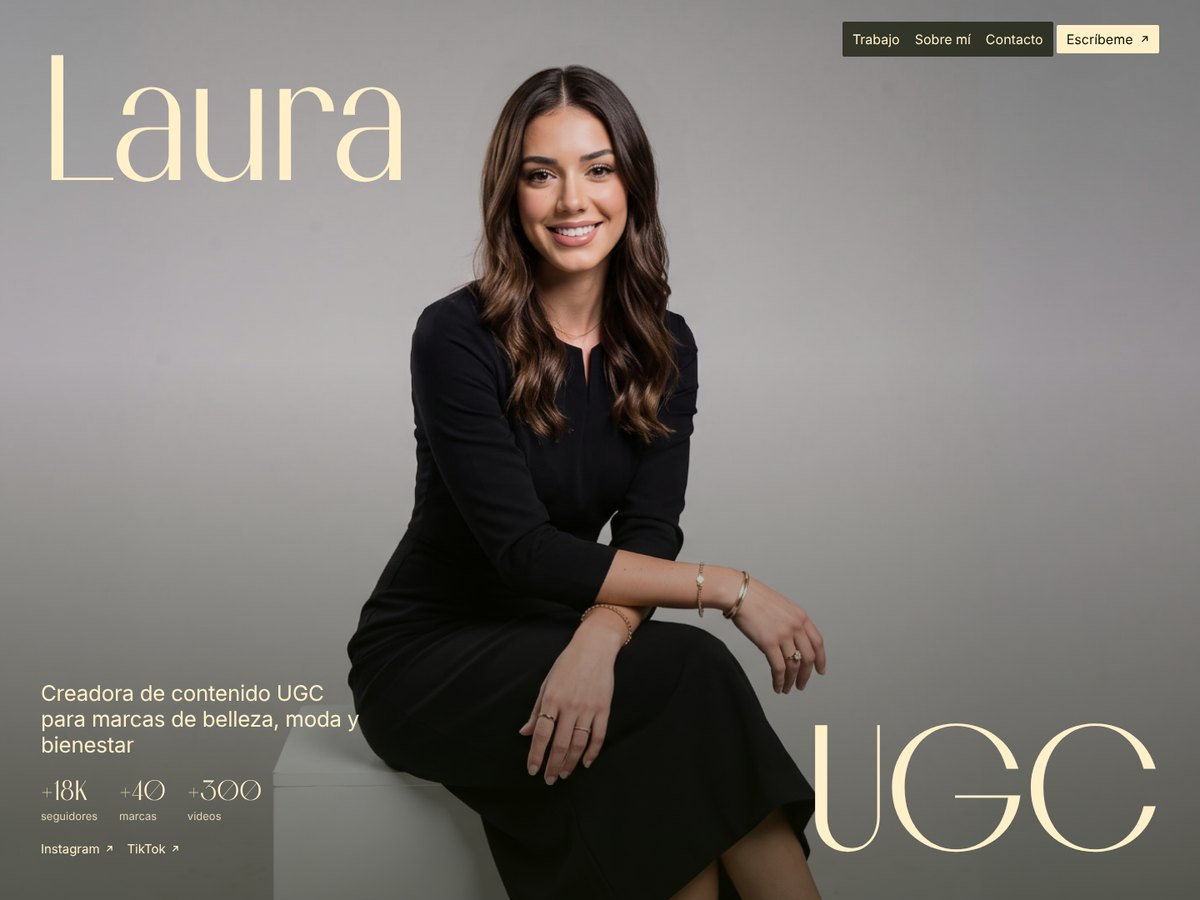
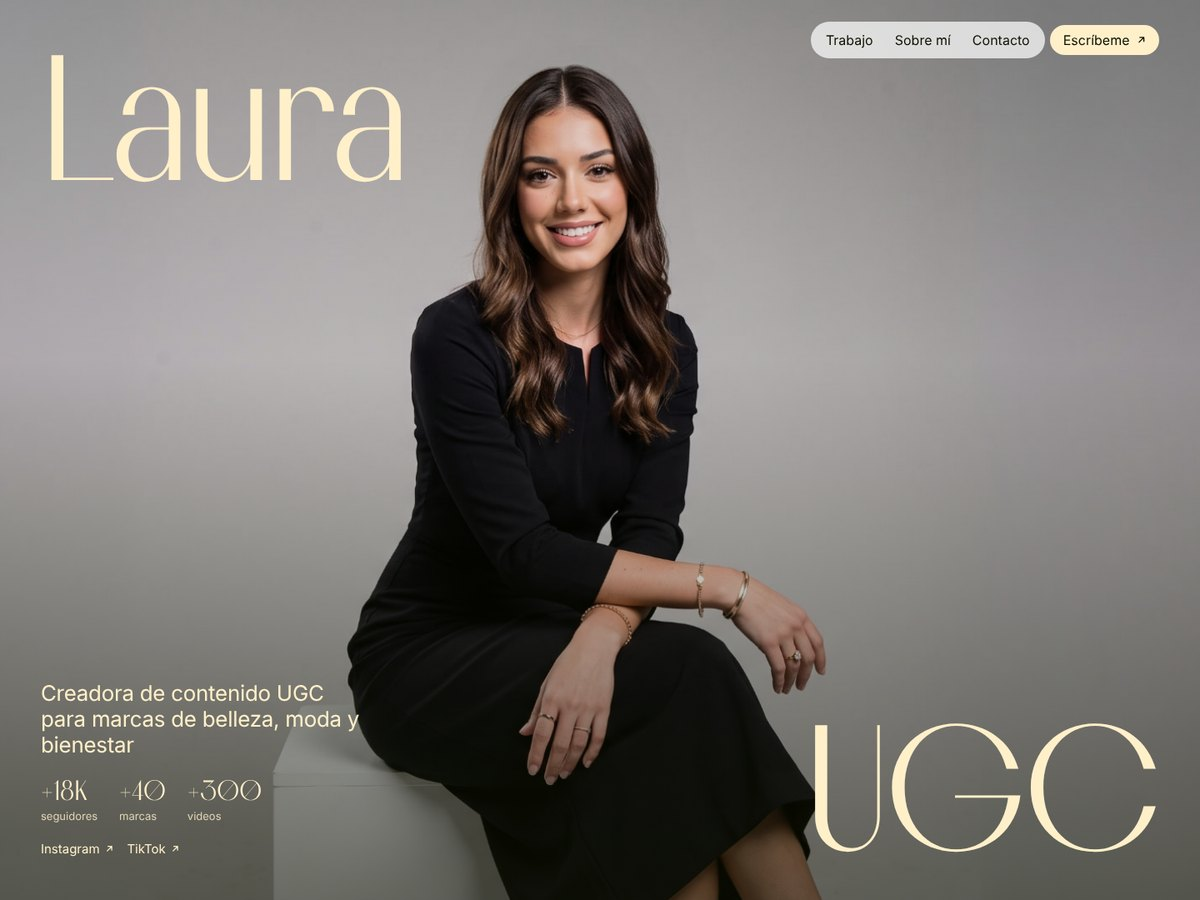
UGC v24: túnel de fotos en Mi trabajo, nav redondo blanco, Sobre mí como frase y sin CTA intermedio
Claude-Session: https://claude.ai/code/session_01YcKiQFBhJYcwdpxSvLqgLC

Changed region(s): [[0.6783, 0.0, 0.9558, 0.0933]]

diff --git a/public/ugc-v24/index.html b/public/ugc-v24/index.html
@@ -57,7 +57,7 @@ main{position:relative;z-index:1;background:inherit}
 .section,.statement,.contact,.feel{transition:color .7s ease}
 
 /* Botones (como la referencia: rectángulo crema con flecha) */
-.btn{display:inline-flex;align-items:center;gap:8px;padding:9px 12px;border-radius:2px;background:var(--cream);color:var(--olive);font-size:16px;line-height:1;transition:background-color .3s,color .3s}
+.btn{display:inline-flex;align-items:center;gap:8px;padding:10px 16px;border-radius:999px;background:var(--cream);color:var(--olive);font-size:16px;line-height:1;transition:background-color .3s,color .3s}
 .btn:hover{background:var(--terra);color:var(--cream)}
 .btn.is-terra{background:var(--terra);color:var(--cream)}
 .btn.is-terra:hover{background:var(--cream);color:var(--olive)}
@@ -68,10 +68,10 @@ main{position:relative;z-index:1;background:inherit}
 .nav__logo{font-family:var(--serif);font-size:34px;font-weight:400;line-height:1;letter-spacing:-.01em;opacity:0;transform:translateY(-8px);transition:opacity .5s,transform .5s}
 .nav.is-scrolled .nav__logo{opacity:1;transform:none}
 .nav__right{display:flex;align-items:center;gap:0}
-.nav__links{display:flex;align-items:center;gap:2px;padding:4px;border-radius:2px;background:color-mix(in srgb,var(--olive) 70%,transparent);transition:background-color .7s;-webkit-backdrop-filter:blur(10px);backdrop-filter:blur(10px)}
-.nav__links a{padding:5px 8px;font-size:16px;transition:color .3s}
+.nav__links{display:flex;align-items:center;gap:2px;padding:4px 6px;border-radius:999px;background:rgba(255,255,255,.72);color:#0e1201;-webkit-backdrop-filter:blur(10px);backdrop-filter:blur(10px)}
+.nav__links a{padding:6px 12px;font-size:16px;border-radius:999px;transition:color .3s}
 .nav__links a:hover{color:var(--terra)}
-.nav__right .btn{margin-left:4px}
+.nav__right .btn{margin-left:6px}
 .menu-btn{display:none;padding:9px 14px;border:0;border-radius:2px;background:var(--cream);color:var(--olive);font-size:15px;cursor:pointer}
 
 /* Menú móvil: panel a media pantalla con botón Cerrar */
@@ -169,7 +169,7 @@ main{position:relative;z-index:1;background:inherit}
 
 /* Sobre mí */
 .about{display:grid;grid-template-columns:minmax(0,1fr) minmax(0,1fr);gap:4vw;align-items:end}
-.about__title{font-family:var(--sans);font-weight:400;font-size:clamp(48px,6vw,96px);line-height:1;letter-spacing:-.04em}
+.about__title{font-family:var(--sans);font-weight:400;font-size:clamp(30px,3.4vw,54px);line-height:1.1;letter-spacing:-.03em;max-width:14em}
 .about__img{aspect-ratio:4/5;overflow:hidden}
 .about__img img{width:100%;height:100%;object-fit:cover;object-position:50% 25%}
 .about__text{display:flex;flex-direction:column;gap:18px;max-width:520px;margin-top:6vh}
@@ -228,6 +228,32 @@ main{position:relative;z-index:1;background:inherit}
 .foot__name{margin-top:6vh;font-family:var(--serif);font-size:31vw;line-height:.8;letter-spacing:-.03em;text-align:center;white-space:nowrap;will-change:transform}
 .foot__bottom{display:flex;justify-content:space-between;gap:20px;padding:22px 3.4vw 30px;font-size:13px;color:rgba(255,240,202,.75)}
 
+
+/* Túnel de fotos (Mi trabajo) */
+#trabajo{padding-top:0}
+.tunnel{position:relative;height:520vh;margin-bottom:14vh}
+.tunnel__stage{position:sticky;top:0;height:100vh;height:100svh;overflow:hidden;perspective:1000px}
+.tunnel__world{position:absolute;inset:0;z-index:2;transform-style:preserve-3d;pointer-events:none}
+.tp{position:absolute;left:50%;top:50%;width:17vw;aspect-ratio:4/5;margin:0;opacity:0;will-change:transform,opacity,clip-path;backface-visibility:hidden}
+.tp img{width:100%;height:100%;object-fit:cover}
+.tp.is-last{width:min(30vw,52vh)}
+.tunnel__line{position:absolute;left:0;top:50%;transform:translateY(-50%);white-space:nowrap;font-family:var(--serif);font-size:clamp(40px,7vw,120px);line-height:1;letter-spacing:-.02em;will-change:transform}
+.tunnel__word{position:absolute;z-index:1;left:0;right:0;bottom:2vh;margin:0;padding-bottom:.14em;overflow:hidden;font-family:var(--sans);font-weight:400;font-size:17vw;line-height:.9;letter-spacing:-.05em;text-align:center;white-space:nowrap}
+.tunnel__word span{display:block;transform:translateY(105%)}
+.no-tunnel .tunnel{height:auto}
+.no-tunnel .tunnel__stage{position:relative;height:100svh;min-height:560px}
+.no-tunnel .tp{display:none}
+.no-tunnel .tp.is-last{display:block;opacity:1;transform:translate(-50%,-56%) rotate(-2.5deg)}
+.no-tunnel .tunnel__line{display:none}
+.no-tunnel .tunnel__word span{transform:none}
+@media (max-width:767px){
+  .tunnel{height:400vh;margin-bottom:8vh}
+  .tp{width:40vw}
+  .tp.is-xtra{display:none}
+  .tp.is-last{width:66vw}
+  .tunnel__line{font-size:15vw}
+  .tunnel__word{font-size:21vw;bottom:14vh}
+}
 .rv{opacity:0;transform:translateY(30px)}
 .no-js .rv{opacity:1;transform:none}
 
@@ -339,8 +365,27 @@ main{position:relative;z-index:1;background:inherit}
 
   <!-- MI TRABAJO -->
   <section class="section" id="trabajo" data-theme="light">
+    <!-- Túnel de fotos: las fotos llegan desde el fondo, se forman, pasan y se deshacen mientras corre la frase; termina con la última foto sobre "Mi trabajo" -->
+    <div class="tunnel">
+      <div class="tunnel__stage">
+        <p class="tunnel__line" aria-hidden="true">Belleza, moda y bienestar contados desde mi día a día, con la luz de mi casa y la voz de alguien de confianza</p>
+        <h2 class="tunnel__word"><span>Mi trabajo</span></h2>
+        <div class="tunnel__world" aria-hidden="true">
+        <figure class="tp" data-x="-24" data-y="-14" data-r="-6"><img src="media/intro-1.jpg" alt="" loading="lazy"></figure>
+        <figure class="tp" data-x="22" data-y="10" data-r="4"><img src="media/foto-1.jpg" alt="" loading="lazy"></figure>
+        <figure class="tp is-xtra" data-x="-8" data-y="22" data-r="-3"><img src="media/poster-2.jpg" alt="" loading="lazy"></figure>
+        <figure class="tp" data-x="28" data-y="-20" data-r="5"><img src="media/intro-3.jpg" alt="" loading="lazy"></figure>
+        <figure class="tp is-xtra" data-x="-30" data-y="12" data-r="-4"><img src="media/foto-3.jpg" alt="" loading="lazy"></figure>
+        <figure class="tp" data-x="12" data-y="-6" data-r="3"><img src="media/poster-1.jpg" alt="" loading="lazy"></figure>
+        <figure class="tp is-xtra" data-x="-16" data-y="-22" data-r="-5"><img src="media/intro-2.jpg" alt="" loading="lazy"></figure>
+        <figure class="tp" data-x="26" data-y="18" data-r="4"><img src="media/foto-2.jpg" alt="" loading="lazy"></figure>
+        <figure class="tp is-xtra" data-x="-26" data-y="4" data-r="-2"><img src="media/poster-3.jpg" alt="" loading="lazy"></figure>
+        <figure class="tp" data-x="6" data-y="-18" data-r="3"><img src="media/foto-5.jpg" alt="" loading="lazy"></figure>
+        <figure class="tp is-last" data-x="0" data-y="0" data-r="-2.5"><img src="media/foto-4.jpg" alt="" loading="lazy"></figure>
+        </div>
+      </div>
+    </div>
     <div class="wrap">
-      <div class="s-head"><span class="count rv">8</span><h2 class="title rv">Mi trabajo</h2></div>
       <div class="works">
         <figure class="work rv"><div class="work__media"><video src="media/video-1.mp4" poster="media/poster-1.jpg" muted loop playsinline preload="none" aria-label="Video de unboxing"></video></div><figcaption><span>Unboxing N°1</span><span class="work__meta"><span>0:32</span><span>9:16</span></span></figcaption></figure>
         <figure class="work rv"><div class="work__media"><img src="media/intro-3.jpg" alt="Laura en el puerto con lentes de sol" loading="lazy" style="object-position:50% 35%"></div><figcaption><span>Lifestyle N°1</span><span class="work__meta"><span>Foto</span><span>4:5</span></span></figcaption></figure>
@@ -387,23 +432,12 @@ main{position:relative;z-index:1;background:inherit}
     </div>
   </section>
 
-  <!-- CTA -->
-  <section class="cta" aria-label="Escríbeme" data-theme="dark">
-    <div class="wrap">
-      <h2 class="title rv">¿Contamos juntas la historia de <em>tu marca?</em></h2>
-      <p class="rv">Mándame tu producto y en una semana tienes videos listos para orgánico y para anuncios</p>
-      <a class="btn rv" href="https://wa.me/5215500000000" target="_blank" rel="noopener">Escríbeme por WhatsApp <svg class="arr"><use href="#arr"/></svg></a>
-    </div>
-  </section>
-
   <!-- SOBRE MÍ -->
   <section class="section" id="sobre-mi" data-theme="light">
     <div class="wrap about">
       <div>
-        <h2 class="about__title rv">Hola, soy Laura</h2>
+        <h2 class="about__title rv">Soy Laura, creadora de contenido UGC. Desde hace cinco años grabo, escribo y edito videos para marcas de belleza, moda y bienestar que la gente sí termina de ver</h2>
         <div class="about__text">
-          <p class="rv">Empecé grabando mis rutinas para mis amigas, y un día una marca me preguntó si podía hacer lo mismo con su producto. Desde entonces hago contenido que se siente como la recomendación de alguien de confianza.</p>
-          <p class="rv">Me encargo de la idea, el guion, la grabación y la edición en formato vertical, listo para TikTok, Reels o Meta Ads.</p>
           <a class="btn rv" href="#contacto">Trabajemos juntas <svg class="arr"><use href="#arr"/></svg></a>
         </div>
       </div>
@@ -431,14 +465,14 @@ main{position:relative;z-index:1;background:inherit}
   </section>
 
   <!-- FRASE FINAL -->
-  <section class="feel" aria-label="Contenido que se siente real" data-theme="dark">
+  <section class="feel" aria-label="Tu producto, en mi día a día" data-theme="dark">
     <svg class="feel__line" viewBox="0 0 220 300" fill="none" stroke="currentColor" stroke-width="1" aria-hidden="true"><path d="M20 290V120a90 90 0 0 1 180 0v170"/><path d="M45 290V125a65 65 0 0 1 130 0v165"/><path d="M10 290h200M70 160h80M70 210h80"/></svg>
     <div class="float f1"><img src="media/intro-1.jpg" alt="" loading="lazy"></div>
     <div class="float f2"><img src="media/intro-2.jpg" alt="" loading="lazy"></div>
     <div class="float f3"><img src="media/foto-5.jpg" alt="" loading="lazy" style="object-position:50% 60%"></div>
     <div class="float f4"><img src="media/foto-3.jpg" alt="" loading="lazy"></div>
     <div class="float f5"><img src="media/foto-4.jpg" alt="" loading="lazy"></div>
-    <p class="feel__t rv">Contenido que se siente real</p>
+    <p class="feel__t rv">Tu producto,<br>en mi día a día</p>
   </section>
 
   <!-- CONTACTO -->
@@ -535,6 +569,41 @@ if (ok && !reduce) {
   });
 } else {
   $$('.rv').forEach(el => { el.style.opacity = 1; el.style.transform = 'none'; });
+}
+
+/* Túnel de fotos: cada foto avanza en Z con el scroll; se forma (recorte que se abre) al acercarse y se deshace al pasar */
+const tunnel = $('.tunnel');
+if (tunnel) {
+  if (!ok || reduce) document.documentElement.classList.add('no-tunnel');
+  else {
+    const figs = $$('.tp', tunnel).filter(f => getComputedStyle(f).display !== 'none');
+    const n = figs.length, gap = isMobile ? 1100 : 1300, D = gap * (n - 1);
+    const items = figs.map((f, i) => ({ f, last: i === n - 1, z0: -gap * i, x: +f.dataset.x, y: +f.dataset.y, r: +f.dataset.r }));
+    const line = $('.tunnel__line', tunnel), word = $('.tunnel__word span', tunnel);
+    const clamp = (v, a = 0, b = 1) => Math.min(b, Math.max(a, v));
+    const render = p => {
+      const travel = clamp(p / .86) * D;
+      items.forEach(it => {
+        const z = it.z0 + travel;
+        const form = clamp((z + 2600) / 1300);              // 0 lejos → 1 formada
+        const gone = it.last ? 0 : clamp((z - 250) / 450);  // se deshace al pasar la cámara
+        const o = form * (1 - gone);
+        if (o <= 0.001 || z > 900) { it.f.style.opacity = 0; it.f.style.visibility = 'hidden'; return; }
+        const k = it.last ? clamp((p - .7) / .3) : 0;        // la última se centra
+        const x = it.x * (1 - k), y = it.y * (1 - k) + (isMobile ? 8 : 5) * k;
+        const ins = (1 - form) * 50;
+        it.f.style.visibility = 'visible';
+        it.f.style.opacity = o;
+        it.f.style.clipPath = `inset(${ins}% ${ins * .6}% ${ins}% ${ins * .6}% )`;
+        it.f.style.transform = `translate(-50%,-50%) translate3d(${x}vw,${y}vh,${Math.min(z, 0)}px) rotate(${it.r * (1 - k) + -2.5 * k}deg)`;
+      });
+      const lw = line.scrollWidth;
+      line.style.transform = `translate3d(${innerWidth - clamp(p / .8) * (lw + innerWidth)}px,-50%,0)`;
+      word.style.transform = `translateY(${105 - clamp((p - .8) / .17) * 105}%)`;
+    };
+    ScrollTrigger.create({ trigger: tunnel, start: 'top top', end: 'bottom bottom', scrub: true, onUpdate: st => render(st.progress), onRefresh: st => render(st.progress) });
+    render(0);
+  }
 }
 
 /* Footer revelado: el contenido deja un hueco del alto del footer (solo desktop y tablet) */

diff --git a/AGENTS.md b/AGENTS.md
@@ -49,7 +49,7 @@
 - V21 → Laura en crema y dorado, estructura y animaciones de nf-daily-02.webflow.io: foto fija de fondo (sin la foto del pasto, que es de baja calidad) con el nombre gigante, tarjeta que sube y crece hasta llenar la pantalla, paso horizontal a Mi trabajo (solo tablet y desktop) con foto de Laura, secciones con ventanas a la foto de fondo que cambia por sección, menú hamburguesa con el subrayado a mano de referencias/navbar-subrayado-osmo. Sin rótulos de capítulos. Sin sección Sobre mí (el usuario la pidió quitar; excepción a las secciones obligatorias). En móvil los fondos usan recortes verticales propios (sentada-m, podcast-m) y la tarjeta de la colección flota con margen. Fuentes: General Sans (la de la referencia) y Gloock en lugar de Cobya, que es de pago → publicado estático en https://wearemiiles.com/ugc-v21/ (public/ugc-v21; librerías en js/).
 - V22 → Diana (fotos de montaña, banca, lancha, lirios y cabras + videos de V17) en crema, amarillo #fbec6a, oliva #7e6b00 y casi negro; títulos en Gambarino (Fontshare, licencia libre, fonts/) con las letras casi juntas (−5 a −7.5%) y texto en Satoshi; estructura editorial propia: hero "Porta | folio" partido con una pantalla tipo celular al centro que con el scroll (pin) crece, cambia de fotos, separa las palabras (izquierda arriba, derecha abajo) y abre un moodboard de fotos y tarjetas UI alrededor (referencia Pinterest 311452130503859453), presentación con estadísticas, reels 9:16, Sobre mí, foto de las cabras con revelado fijo (en móvil foto normal), marcas, nichos con palabras gigantes que pasan, testimonios con logo, contacto con botones; fondo que cambia crema ↔ amarillo ↔ negro con el scroll; menú hamburguesa a media pantalla que se desliza → publicado estático en https://wearemiiles.com/ugc-v22/ (public/ugc-v22). Advercase no se usó: la versión gratis es demo (sin acentos, con marca de agua).
 - V23 → Diana "Studio", variante de V22 con estilo de app de diseño: blanco y negro con acentos lima/naranja/azul/violeta/amarillo; hero tipo Medium Day (fotos grandes de fondo + texturas de pincel naranja/amarilla abajo, con un mosaico de celdas blancas, de cuadrícula y de color encima que las deja ver en formas escalonadas; "Diana UGC" en el centro blanco) y regla 0·360·720·1080 alineada con las columnas; loader de entrada como V8 ("Portafolio" sobre negro con contador y la página sube); barra flotante abajo gris con blur y píldora blanca deslizante (sin herramientas; en móvil abre panel lateral); logo con el mismo estilo; números en celdas; Mi trabajo en marcos con nombre; Sobre mí con mini fotos centradas en la cara, palabras que se colorean, marcador y trazos a lápiz de Osmo + 4 pasos con íconos; banda con textura de pincel naranja que se abre con el scroll (en móvil contenedor 4:5 con margen); marcas en celdas que se colorean; nichos como panel de capas; testimonios como comentarios; contacto en tarjetas que copian/abren; footer revelado (solo desktop). Títulos con letras que suben en orden aleatorio. Cursor azul "Invitado" que reemplaza al del sistema (solo mouse, sin reducir movimiento). Gambarino + Manrope → publicado estático en https://wearemiiles.com/ugc-v23/ (public/ugc-v23).
-- V24 → Laura con estructura, colores y animaciones de casamomo.at (Framer): verde oliva casi negro #0e1201, crema #fff0ca, terracota #bc6f45 y óxido #964317; títulos en Melodrama (Fontshare, licencia libre, fonts/) y texto en Helvetica (sistema); hero a pantalla completa con la foto sentada, "Laura" arriba a la izquierda y "UGC" abajo a la derecha (en móvil solo Laura), logo que aparece en el nav al bajar, nav con links en cápsula translúcida y botón crema "Escríbeme"; frase escalonada que se enciende palabra por palabra; foto que se abre de recuadro a pantalla completa (desktop); Mi trabajo en tarjetas escalonadas de dos columnas con nombre "N°" y datos; marcas en celdas; nichos en filas con foto al pasar el mouse; CTA en óxido; Sobre mí; fondo que cambia verde ↔ crema con el scroll (Mi trabajo, Sobre mí y Testimonios en crema); testimonios como en la referencia: "Reseñas recientes" gigante que se mueve con el scroll y fila de reseñas con logo que avanza sola y se detiene con el cursor; frase final con fotos flotantes y arco de línea; contacto en tarjetas; footer terracota con columnas y "Laura" gigante que se revela debajo (solo desktop/tablet) → publicado estático en https://wearemiiles.com/ugc-v24/ (public/ugc-v24).
+- V24 → Laura con estructura, colores y animaciones de casamomo.at (Framer): verde oliva casi negro #0e1201, crema #fff0ca, terracota #bc6f45 y óxido #964317; títulos en Melodrama (Fontshare, licencia libre, fonts/) y texto en Helvetica (sistema); hero a pantalla completa con la foto sentada, "Laura" arriba a la izquierda y "UGC" abajo a la derecha (en móvil solo Laura), logo que aparece en el nav al bajar, nav con links en cápsula redonda blanca con blur y botones redondos; frase escalonada que se enciende palabra por palabra; foto que se abre de recuadro a pantalla completa (desktop); Mi trabajo abre con un túnel de fotos (CSS 3D + ScrollTrigger, inspirado en el pen "Per Appelgren — Photo Tunnel" de shakuro: las fotos llegan desde el fondo, se forman con un recorte que se abre, pasan y se deshacen mientras corre una frase; termina con la última foto inclinada sobre "Mi trabajo" gigante; en móvil menos fotos y túnel más corto; con reducir movimiento solo el cuadro final) y sigue con tarjetas escalonadas de dos columnas con nombre "N°" y datos; marcas en celdas; nichos en filas con foto al pasar el mouse; Sobre mí como una frase grande y sencilla (sin CTA a mitad de página, el usuario lo pidió quitar); frase "Tu producto, en mi día a día"; fondo que cambia verde ↔ crema con el scroll (Mi trabajo, Sobre mí y Testimonios en crema); testimonios como en la referencia: "Reseñas recientes" gigante que se mueve con el scroll y fila de reseñas con logo que avanza sola y se detiene con el cursor; frase final con fotos flotantes y arco de línea; contacto en tarjetas; footer terracota con columnas y "Laura" gigante que se revela debajo (solo desktop/tablet) → publicado estático en https://wearemiiles.com/ugc-v24/ (public/ugc-v24).
 - Recursos para más adelante: https://ruben-menu.webflow.io/ (título animado, mención honorífica).
 - Referencias (no publicadas, componentes para reutilizar): referencias/dsgn-interior (slider vertical paralaje + SplitText) y referencias/paul-kalkbrenner (animaciones analógicas + sintetizador Web Audio).
 - Componentes guardados para próximas plantillas: referencias/hero-puntos-area17 (primera sección: dos capas y cuadrícula de círculos que revela la foto de la creadora, de area17-award-winning-rebuild.webflow.io) y referencias/navbar-subrayado-osmo (links del navbar con subrayado a mano aleatorio con DrawSVG, de osmo-draw-random-underline-drawsvg.webflow.io). Cada uno tiene README y la copia del original.
